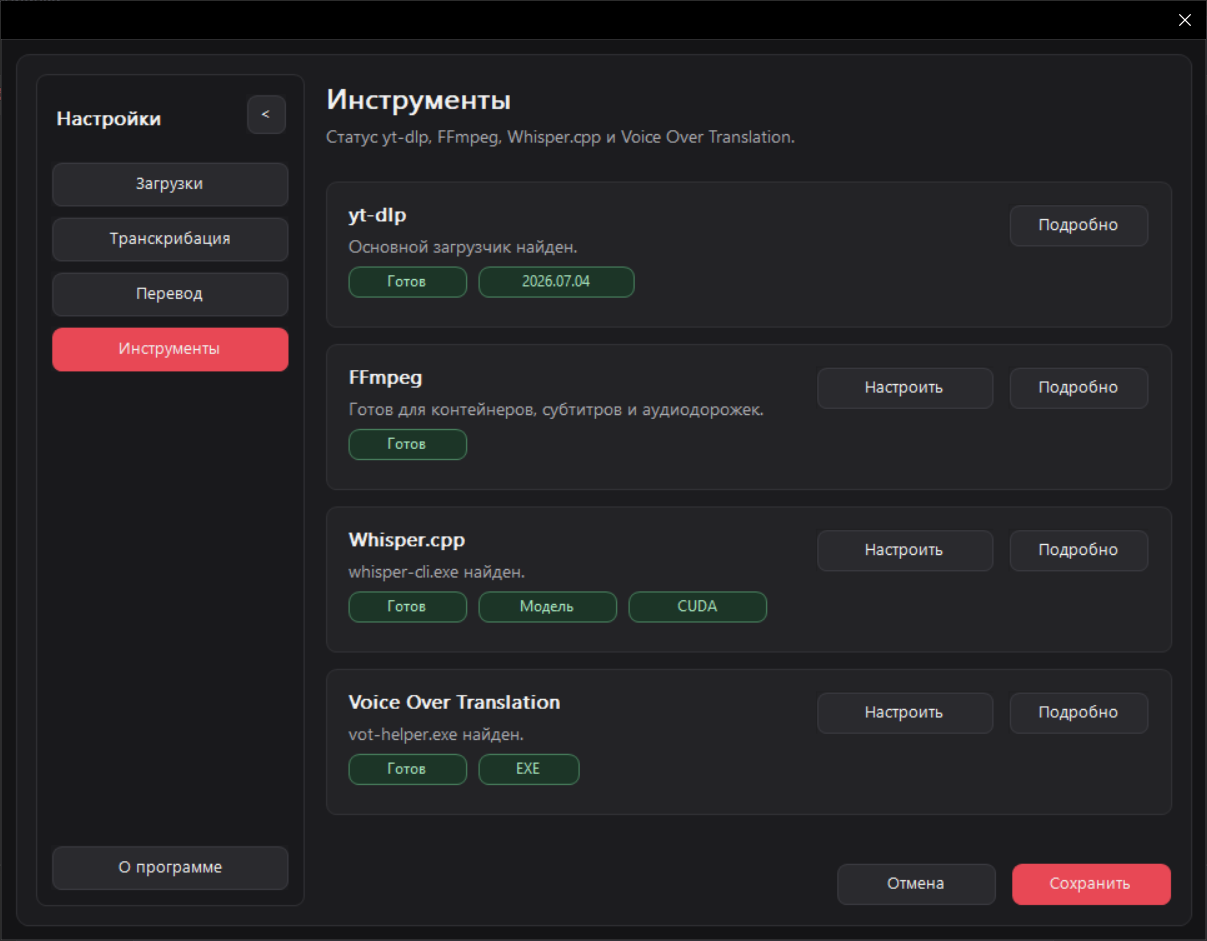
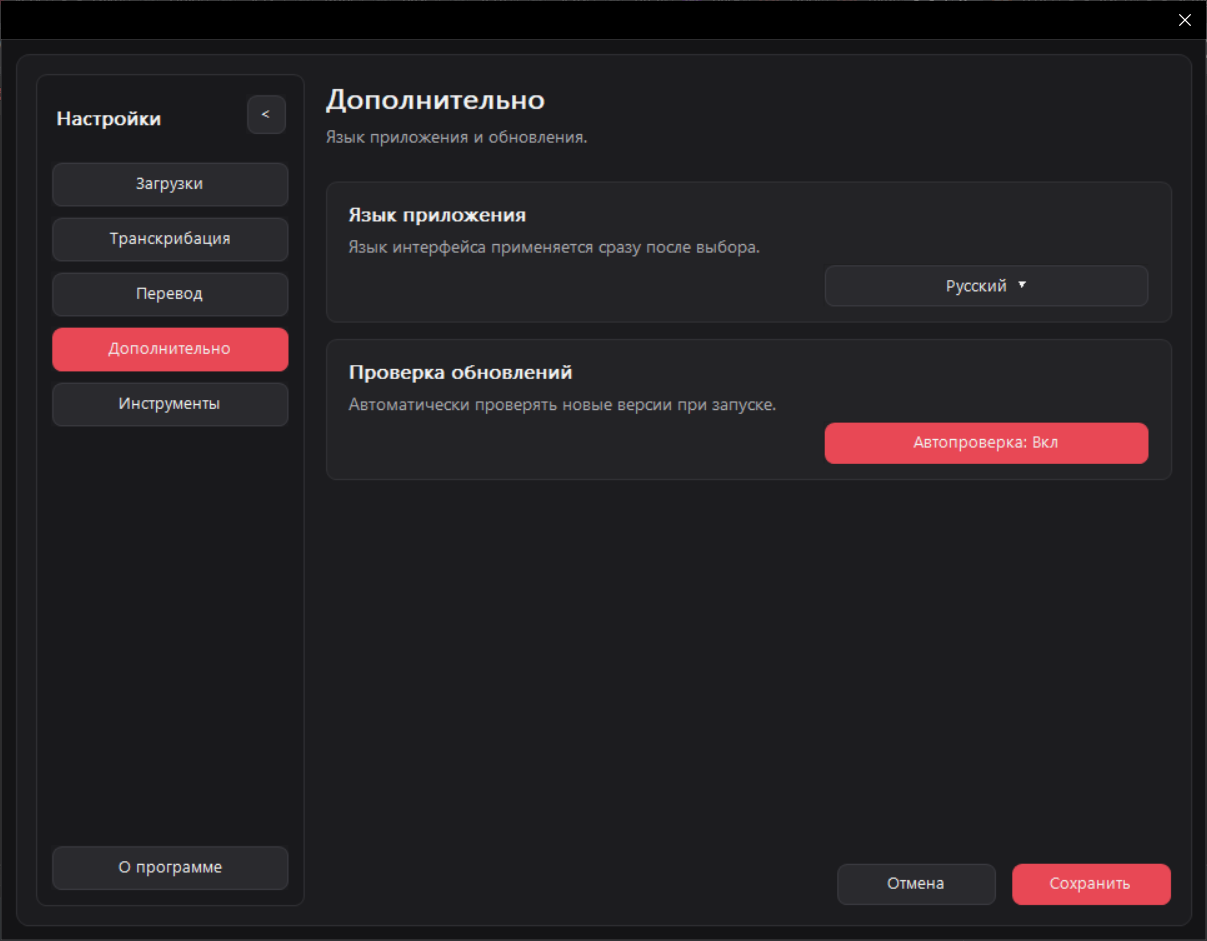
Update README screenshots

diff --git a/README.en.md b/README.en.md
@@ -12,7 +12,9 @@ YoutubeDownloader is a portable Win32 application for downloading YouTube videos
 
 ![Translation settings](screenshots/settings3.png)
 
-![Tools settings](screenshots/settings4.png)
+![Additional settings](screenshots/settings4.png)
+
+![Tools settings](screenshots/settings5.png)
 
 ## Stack
 